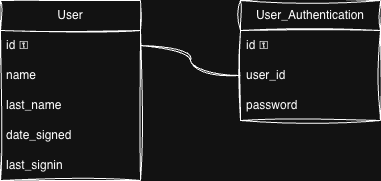
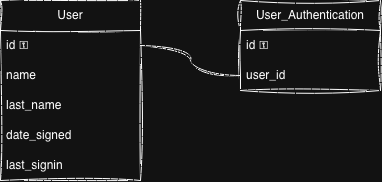
documentacion
update: login db diagram

diff --git a/DataModel.md b/DataModel.md
@@ -20,7 +20,6 @@
 **Fields:**  
  - id -> integer
  - user_id -> integer
- - password -> varchar
 
 ## Event
 
